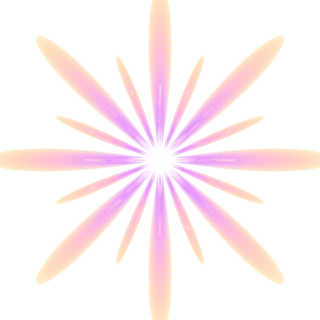
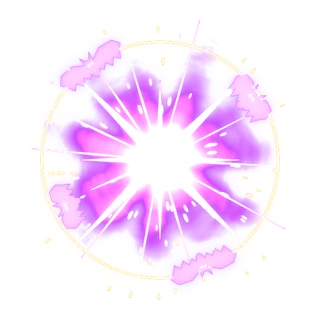
お試し版: 夜宴の小悪魔の攻撃演出をPCのBlenderで作り直し(炎・火の粉・コウモリ)
Claude-Session: https://claude.ai/code/session_01TG9K78DLjDwnXYj2k1dvQq

diff --git a/preview/sw.js b/preview/sw.js
@@ -1,5 +1,5 @@
 /* Bump VERSION on every release: a changed sw.js is what makes phones show the update notice. */
-const VERSION = 'v143-preview-2026-10-30g';
+const VERSION = 'v143-preview-2026-10-30h';
 const CACHE = 'ladder-preview-' + VERSION;
 const SHELL = ['./', 'index.html', 'manifest.webmanifest', 'icon-192.png', 'icon-512.png', 'apple-touch-icon.png', 'tcg_spectator.js', 'motion_lifecycle.js',
   'kmr_hood.jpg', 'kmr_chibi.jpg', 'kmr_hoodie2.jpg', 'kmr_vt1.jpg', 'kmr_vt2.jpg', 'kmr_vt3.jpg',
